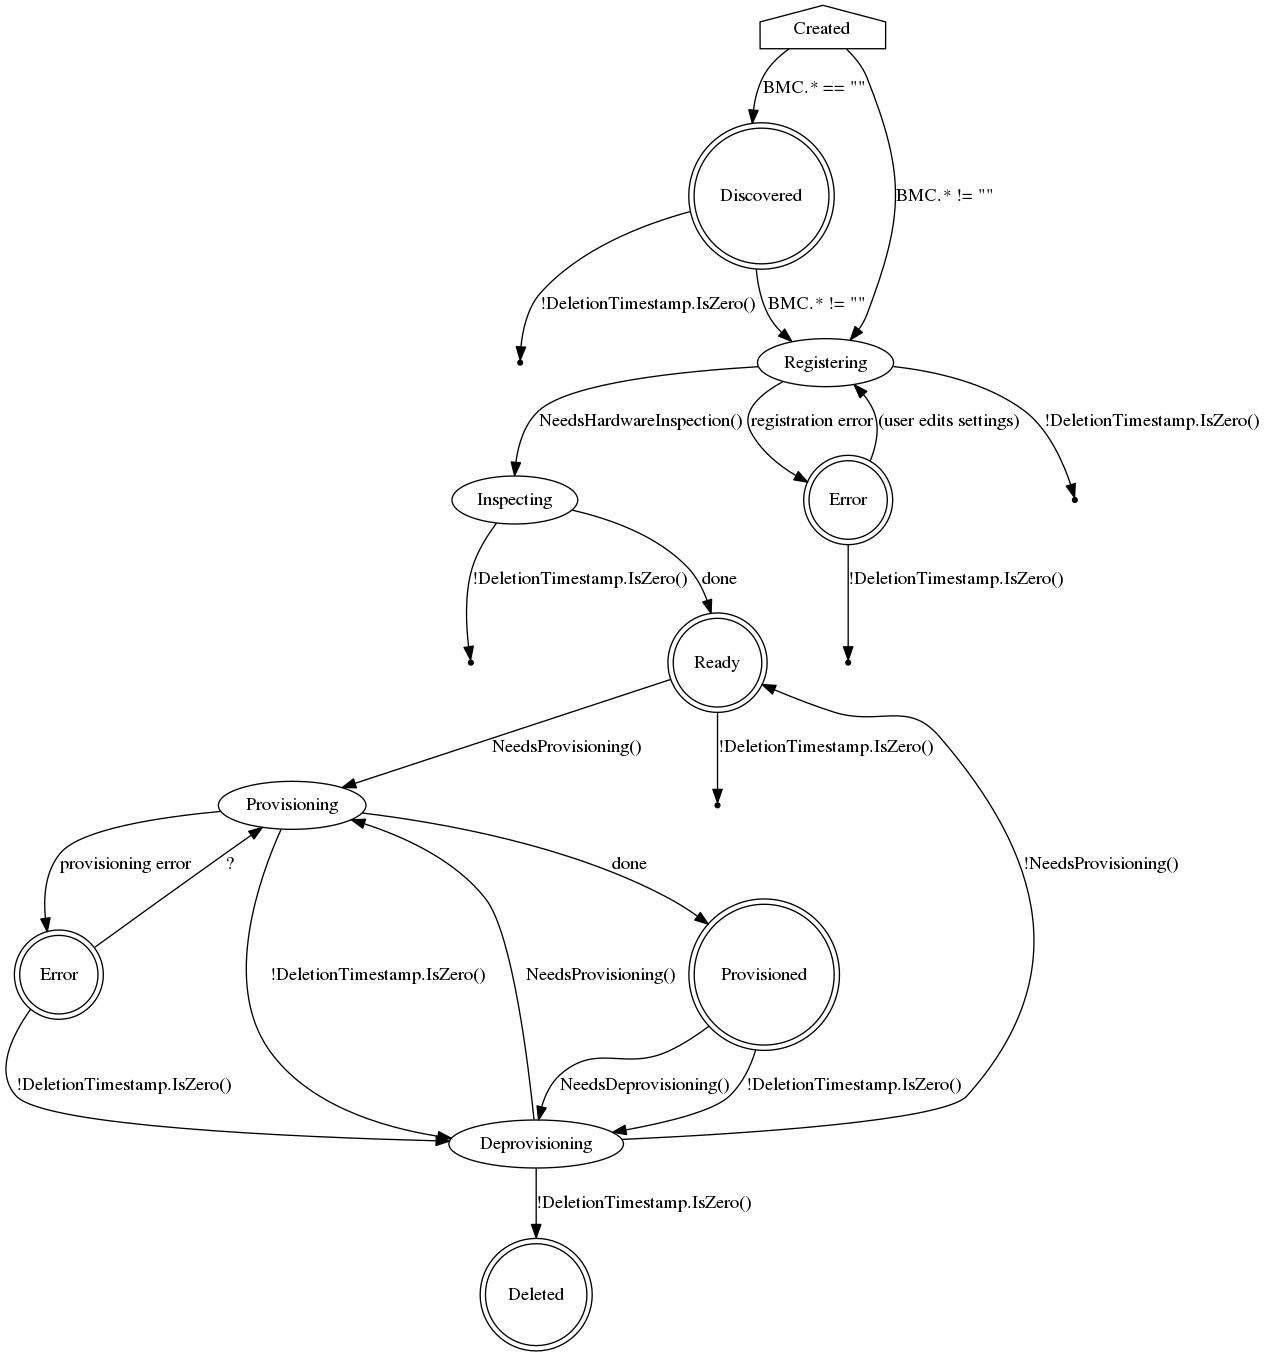
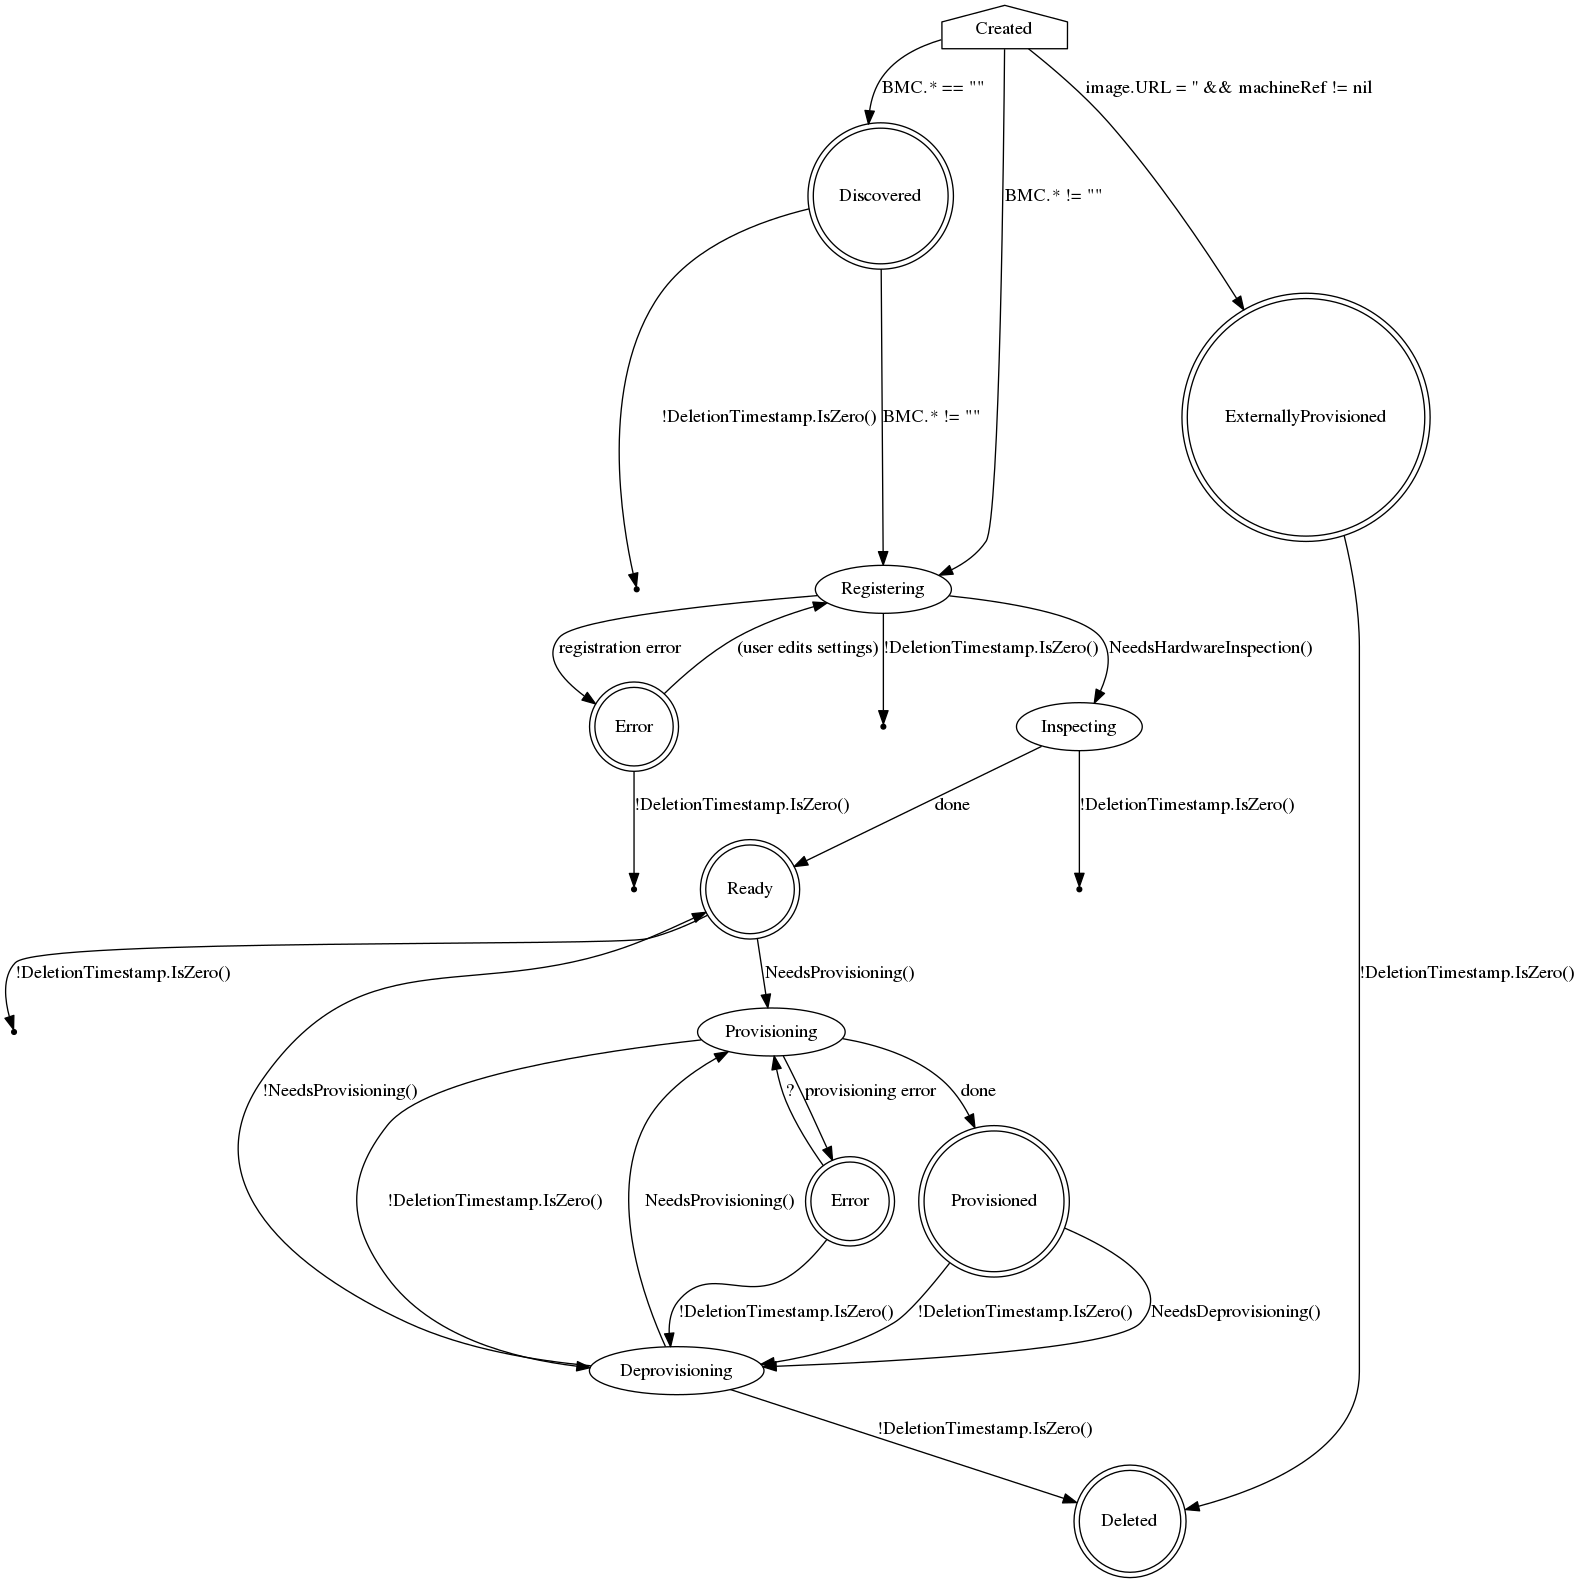
add ExternallyProvisioned state to documentation

diff --git a/docs/baremetalhost-states.md b/docs/baremetalhost-states.md
@@ -16,6 +16,13 @@ A Discovered host is missing either the BMC address or credentials
 secret name, and does not have enough information to access the BMC
 for registration.
 
+## Externally Provisioned
+
+An Externally Provisioned host was deployed using another tool and
+then a host object was created with a link to an existing Machine
+object and without an Image setting. Hosts in this state are
+monitored, and only their power status is managed.
+
 ## Registering
 
 The host will stay in the Registering state while the BMC access
